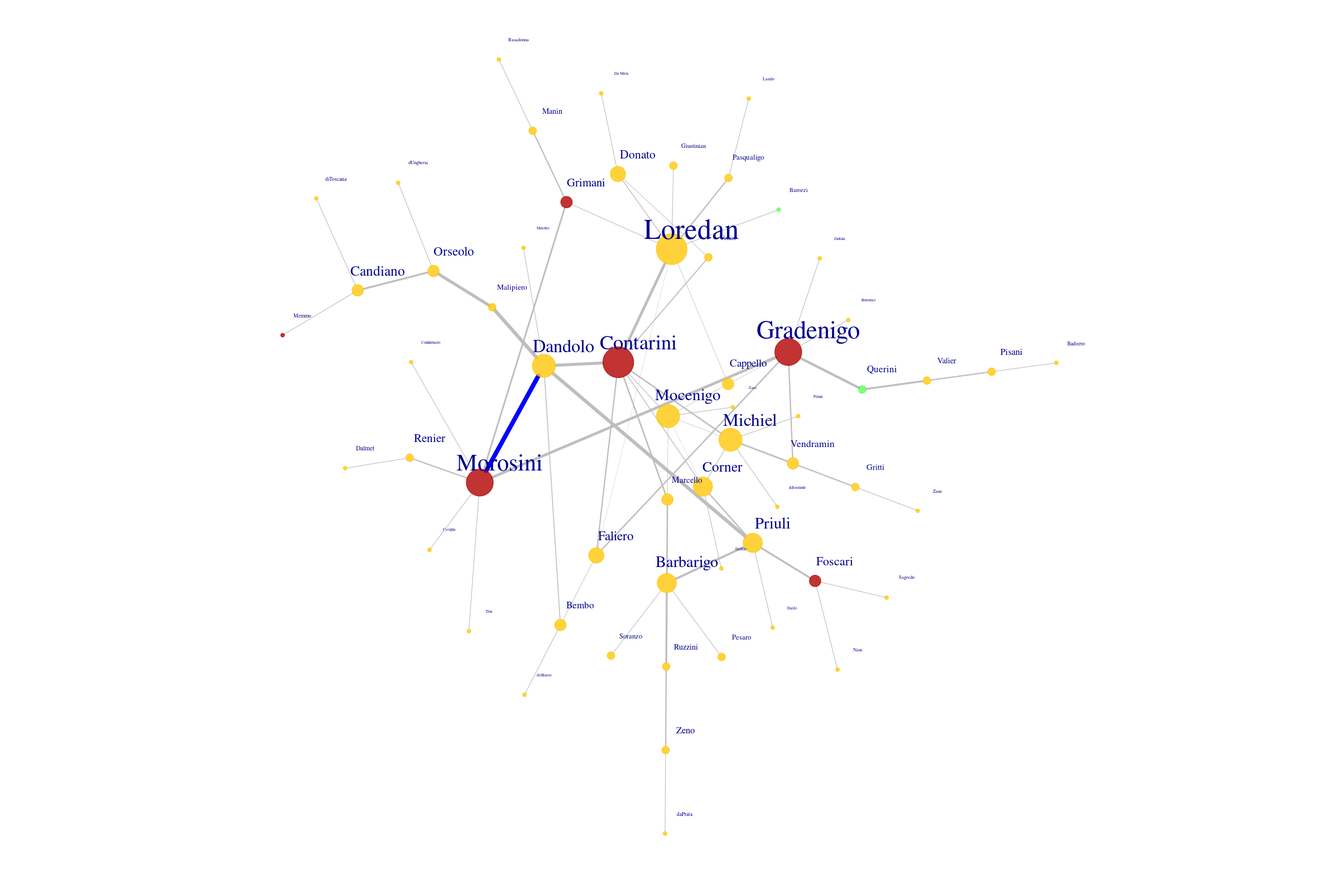
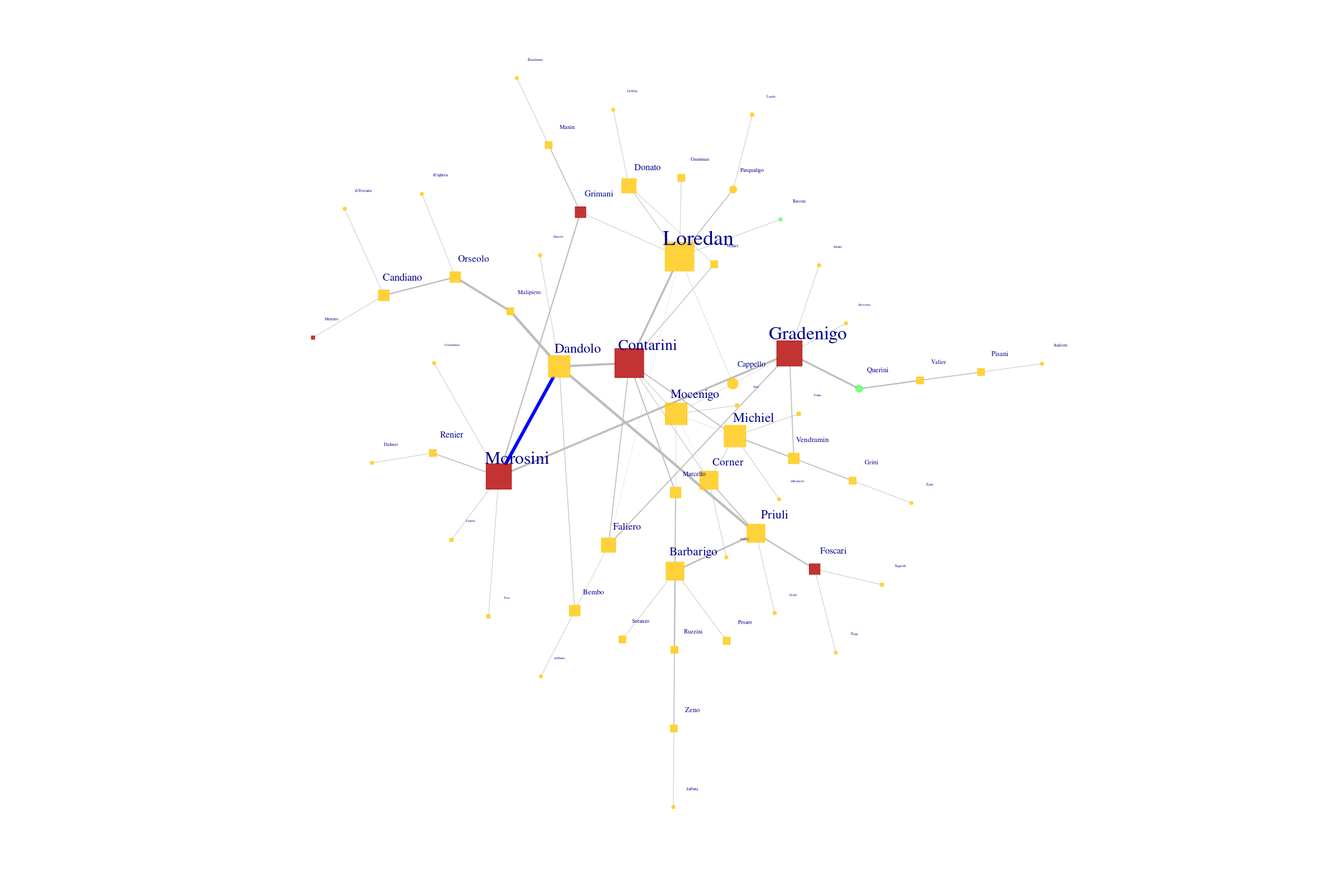
Finishing presentation roughly

diff --git a/doges-marriages.html b/doges-marriages.html
@@ -5312,11 +5312,11 @@ HTMLWidgets.widget({
 </head>
 <body style="background-color: white;">
 <div id="htmlwidget_container">
-<div id="htmlwidget-9675c277565840cb94f7" class="visNetwork html-widget" style="width:960px;height:500px;">
+<div id="htmlwidget-a7ac22d176d3cacc8e30" class="visNetwork html-widget" style="width:960px;height:500px;">
 
 </div>
 </div>
-<script type="application/json" data-for="htmlwidget-9675c277565840cb94f7">{"x":{"nodes":{"id":["Candiano","Orseolo","Memmo","Faliero","Michiel","Polani","Dandolo","Zeno","Gradenigo","Corner","Morosini","Mocenigo","Foscari","Malipiero","Tron","Marcello","Vendramin","Barbarigo","Loredan","Grimani","Gritti","Lando","Donato","Priuli","Venier","Cicogna","Contarini","Valier","Pesaro","Pisani","Renier","Manin","Bembo","Sagredo","Ruzzini","diToscana","dUngheria","diBoemodo","Minotto","daPrata","Zantani","Cappello","Borromeo","Condulmiero","Nani","Zorzi","Soranzo","Giustinian","Pasqualigo","Da Mula","Diedo","Delfino","Querini","Badoero","Dalmet","Zane","Barozzi","delBasso","Basadonna"],"family.type":["Estinte","Estinte","Apostoliche","Apostoliche","Apostoliche","Apostoliche","Apostoliche","Vecchie","Apostoliche","Evangeliche","Apostoliche","Ducali","Ducali","Ducali","Ducali","Ducali","Nuovissime","Ducali","Ducali","Ducali","Ducali","Ducali","Ducali","Ducali","Ducali","Nuovissime","Apostoliche","Nuove","Nuove","Nuove","Nuovissime","Soldo","Evangeliche","Nuove","Nuove",null,null,null,"Nuove",null,"Nuove","Nuove",null,"Nuovissime","Nuove","Vecchie","Vecchie","Evangeliche","Nuove","Nuove","Nuove",null,"Vecchie","Evangeliche",null,"Vecchie","Apostoliche",null,"Nuove"],"degree":[3,3,1,4,6,1,6,2,7,5,7,6,3,2,1,3,3,5,8,3,2,1,4,5,2,1,8,2,2,2,2,2,3,1,2,1,1,1,1,1,1,3,1,1,1,1,2,2,2,1,1,1,2,1,1,1,1,1,1],"EV":[0.002856844875694197,0.01343615568769284,0.0005606452236279765,0.6848367724172899,0.3534948367148152,0.06937205217806876,0.3074470445047806,0.00375927253720383,0.5898277734642251,0.3355606193203592,0.3870597745293211,0.4368085419371377,0.03325843298987073,0.06297213932088259,0.07595904688232251,0.2402489612431314,0.1928481465409968,0.09009293034815243,0.9999999999999999,0.4879985364849654,0.03936165433253917,0.04005524027812019,0.2957893848178251,0.1564192327635606,0.194894070236025,0.07595904688232254,0.6973201653786649,0.04930543412526792,0.02199729062622511,0.01006358365151306,0.1795829206186633,0.09960391143205911,0.2025320611165735,0.00652684426787109,0.01841814713928117,0.0005606452236279775,0.002636795779258481,0.06937205217806867,0.06033534354162411,0.0007377433091416815,0.1157515155160383,0.5134713847072709,0.1157515155160383,0.07595904688232254,0.006526844267871084,0.08572205819101074,0.02199729062622512,0.2542938664982271,0.2041069880034932,0.05804757101404372,0.03069669497232698,0.06585252845199872,0.2411790398263998,0.001974941010904636,0.07048496580728572,0.007724578846889755,0.3924925909683666,0.03974616671090379,0.01954689863427626],"pagerank":[0.02630639878828533,0.02389791738447135,0.009995852538036774,0.02428188126270734,0.03282996389582402,0.007193284433264335,0.03367335807721221,0.01731659111215625,0.04676981169917919,0.02667332564425485,0.04411917904344832,0.03034775812715164,0.02305681111804117,0.01408384186789455,0.007230035654722316,0.01597748871775425,0.01816418963062087,0.02974761243144413,0.05284676512493708,0.02157755881799092,0.01542060309330889,0.008388911413148945,0.0225706889278769,0.02992180578347248,0.01141740026690278,0.007230035654722314,0.03838829165527532,0.01490474753385237,0.01321646433861118,0.01728048145971934,0.02204104168648335,0.01454187253124312,0.01791662178631015,0.009075136031467597,0.01495901821736784,0.009995852538036773,0.009313449473622816,0.007193284433264334,0.007312765275627665,0.009901924104022337,0.006959521764056189,0.0197595500501814,0.00695952176405619,0.007230035654722317,0.009075136031467597,0.006841638616035749,0.01321646433861118,0.01142225794727491,0.01375656125127767,0.007338644278529774,0.007629079864546259,0.007076838240879259,0.0177111883486437,0.009886577501736653,0.01190981559811135,0.009096129196012208,0.01070960021884621,0.007618749054143808,0.008722668707134262],"color":["#FFC70ACC","#FFC70ACC","#B30000CC","#FFC70ACC","#FFC70ACC","#FFC70ACC","#FFC70ACC","#FFC70ACC","#B30000CC","#FFC70ACC","#B30000CC","#FFC70ACC","#B30000CC","#FFC70ACC","#FFC70ACC","#FFC70ACC","#FFC70ACC","#FFC70ACC","#FFC70ACC","#B30000CC","#FFC70ACC","#FFC70ACC","#FFC70ACC","#FFC70ACC","#FFC70ACC","#FFC70ACC","#B30000CC","#FFC70ACC","#FFC70ACC","#FFC70ACC","#FFC70ACC","#FFC70ACC","#FFC70ACC","#FFC70ACC","#FFC70ACC","#FFC70ACC","#FFC70ACC","#FFC70ACC","#FFC70ACC","#FFC70ACC","#FFC70ACC","#FFC70ACC","#FFC70ACC","#FFC70ACC","#FFC70ACC","#FFC70ACC","#FFC70ACC","#FFC70ACC","#FFC70ACC","#FFC70ACC","#FFC70ACC","#FFC70ACC","#00FF0080","#FFC70ACC","#FFC70ACC","#FFC70ACC","#00FF0080","#FFC70ACC","#FFC70ACC"],"shape":["circle","circle","circle","circle","circle","circle","circle","circle","circle","circle","circle","circle","circle","circle","circle","circle","circle","circle","circle","circle","circle","circle","circle","circle","circle","circle","circle","circle","circle","circle","circle","circle","circle","circle","circle","circle","circle","circle","circle","circle","circle","circle","circle","circle","circle","circle","circle","circle","circle","circle","circle","circle","circle","circle","circle","circle","circle","circle","circle"],"font.size":[26.30639878828533,23.89791738447135,9.995852538036774,24.28188126270734,32.82996389582402,7.193284433264335,33.67335807721221,17.31659111215625,46.76981169917919,26.67332564425485,44.11917904344831,30.34775812715164,23.05681111804117,14.08384186789455,7.230035654722316,15.97748871775425,18.16418963062087,29.74761243144413,52.84676512493708,21.57755881799092,15.42060309330889,8.388911413148945,22.5706889278769,29.92180578347248,11.41740026690278,7.230035654722314,38.38829165527532,14.90474753385237,13.21646433861119,17.28048145971934,22.04104168648335,14.54187253124313,17.91662178631015,9.075136031467597,14.95901821736784,9.995852538036772,9.313449473622816,7.193284433264334,7.312765275627664,9.901924104022337,6.959521764056189,19.7595500501814,6.959521764056189,7.230035654722317,9.075136031467597,6.841638616035749,13.21646433861118,11.42225794727491,13.75656125127767,7.338644278529774,7.629079864546259,7.076838240879259,17.7111883486437,9.886577501736653,11.90981559811135,9.096129196012209,10.70960021884621,7.618749054143808,8.722668707134263],"label":["Candiano","Orseolo","Memmo","Faliero","Michiel","Polani","Dandolo","Zeno","Gradenigo","Corner","Morosini","Mocenigo","Foscari","Malipiero","Tron","Marcello","Vendramin","Barbarigo","Loredan","Grimani","Gritti","Lando","Donato","Priuli","Venier","Cicogna","Contarini","Valier","Pesaro","Pisani","Renier","Manin","Bembo","Sagredo","Ruzzini","diToscana","dUngheria","diBoemodo","Minotto","daPrata","Zantani","Cappello","Borromeo","Condulmiero","Nani","Zorzi","Soranzo","Giustinian","Pasqualigo","Da Mula","Diedo","Delfino","Querini","Badoero","Dalmet","Zane","Barozzi","delBasso","Basadonna"],"x":[0.8741261662039472,0.6883686537631302,0.9680162060451669,-0.04158809845672229,-0.07459981515866676,-0.165542295278055,0.2235571216878838,0.5374467473015596,-0.2248050675217554,0.1113262454529376,0.007397959959433154,0.01498509956287619,0.5532438834042788,0.4673167510611391,-0.02247624435341966,0.1642219134344955,-0.257262000800032,0.3452291366225564,-0.149282150394903,-0.1396245859544198,-0.4147342475737815,-0.4013286970170673,-0.2482342585033052,0.330386477231758,-0.1234983952548055,0.05058439063467368,0.02624675719770075,-0.6964115912732811,0.3862812329034973,-0.8719361411310649,0.04246597028654286,-0.2183017446133515,0.1270938975095062,0.6727619932036986,0.4523627056967159,1,0.7743354935001874,-0.1063093190278543,0.3445186618328127,0.6002984116057304,-0.3506058067711511,-0.1066311132274659,-0.3715174386462246,0.1071265885996942,0.6939363861872512,0.009402733981899836,0.4350401444969367,-0.2630060584146759,-0.2926313318795327,-0.3837507096050433,0.4457150425497436,0.1462336053612379,-0.4834090347681332,-1,0.06552457089054364,-0.5273130802165324,-0.1972526396993645,0.2231449704826722,-0.2746483361715795],"y":[0.7300578415974679,0.6003267793565763,0.8543930848866546,0.2434302642643118,-0.1603002127049491,-0.32326030827994,0.2515969376902842,-0.8465112298980355,0.2772040925544133,-0.1288552342728987,0.5157874125323922,-0.09621104454684481,-0.1672087323361319,0.4349879052855741,0.6911304730297256,-0.1728235251570589,-0.03975582112961551,-0.3714032213915824,0.2874667246776896,0.5710218981009261,-0.2065052764400021,0.6189120087843507,0.119219308693354,-0.08803358670612815,0.0328222556817277,0.6838930274314312,0.05096896090625336,0.4257266992369613,-0.530461807408391,0.4852205255595534,0.8021722791965853,0.8176427601352547,0.3225500595412572,-0.2611912003939265,-0.6369061143010279,0.7600603649615523,0.6887161140514682,-0.3622841385182579,0.2921158502799277,-1,0.362096897662012,0.1212426025513007,0.265141969206669,0.6427372064818879,-0.1714498292429841,-0.2815719180620263,-0.4904742065223114,0.2126512984075326,0.4823875844552783,0.04637633319013856,-0.1163087177213156,-0.3104842454360474,0.3564885834420723,0.5290585776752292,1,-0.3242483703446652,0.4255443793122853,0.4378732169367978,0.9960735233749982]},"edges":{"from":["Candiano","Candiano","Candiano","Orseolo","Orseolo","Faliero","Faliero","Faliero","Faliero","Michiel","Michiel","Michiel","Michiel","Michiel","Michiel","Dandolo","Dandolo","Dandolo","Dandolo","Dandolo","Dandolo","Zeno","Zeno","Gradenigo","Gradenigo","Gradenigo","Gradenigo","Gradenigo","Gradenigo","Corner","Corner","Corner","Corner","Morosini","Morosini","Morosini","Morosini","Morosini","Mocenigo","Mocenigo","Mocenigo","Mocenigo","Foscari","Foscari","Foscari","Marcello","Marcello","Vendramin","Barbarigo","Barbarigo","Barbarigo","Barbarigo","Loredan","Loredan","Loredan","Loredan","Loredan","Loredan","Loredan","Grimani","Gritti","Lando","Donato","Donato","Donato","Priuli","Venier","Valier","Valier","Pesaro","Pisani","Renier","Manin","Bembo"],"to":["Orseolo","Memmo","diToscana","Malipiero","dUngheria","Gradenigo","Loredan","Contarini","Bembo","Polani","Corner","Mocenigo","Vendramin","Contarini","diBoemodo","Morosini","Malipiero","Priuli","Contarini","Bembo","Minotto","Ruzzini","daPrata","Morosini","Vendramin","Zantani","Cappello","Borromeo","Querini","Mocenigo","Priuli","Contarini","Delfino","Tron","Grimani","Cicogna","Renier","Condulmiero","Marcello","Contarini","Cappello","Zorzi","Priuli","Sagredo","Nani","Barbarigo","Contarini","Gritti","Priuli","Pesaro","Ruzzini","Soranzo","Grimani","Donato","Contarini","Cappello","Giustinian","Pasqualigo","Barozzi","Manin","Zane","Pasqualigo","Venier","Giustinian","Da Mula","Diedo","Contarini","Pisani","Querini","Soranzo","Badoero","Dalmet","Basadonna","delBasso"],"weight":[1,1,1,1,1,1,2,1,1,1,1,1,1,1,1,1,1,1,1,1,1,1,1,1,1,1,2,1,2,1,1,1,1,1,1,1,2,1,1,1,1,1,1,1,1,1,1,1,1,1,1,1,2,1,1,1,1,1,2,1,1,1,1,1,1,1,1,1,1,1,1,2,1,1],"edge_betweenness":[168,58,58,270,58,127.0833333333333,23.05,114.9333333333333,47.40000000000001,58,61,36.16666666666666,142.1666666666666,129,58,400,318,308.1666666666666,270.1,77.93333333333332,58,114,58,241,115.1666666666667,58,34.91666666666667,58,220,22,120.5,72.83333333333333,58,58,149,58,114,58,37,60.08333333333334,39.25000000000001,58,168,58,58,134,133,114,194,57,168,57,57.00000000000001,73.23333333333332,244.6833333333334,40.16666666666667,55,114,58,114,58,58,46.43333333333332,3,58,58,91.76666666666667,114,168,1,58,58,58,58],"color":["gray","gray","gray","gray","gray","gray","gray","gray","gray","gray","gray","gray","gray","gray","gray","blue","gray","gray","gray","gray","gray","gray","gray","gray","gray","gray","gray","gray","gray","gray","gray","gray","gray","gray","gray","gray","gray","gray","gray","gray","gray","gray","gray","gray","gray","gray","gray","gray","gray","gray","gray","gray","gray","gray","gray","gray","gray","gray","gray","gray","gray","gray","gray","gray","gray","gray","gray","gray","gray","gray","gray","gray","gray","gray"],"edge.value":[3.36,1.16,1.16,5.4,1.16,2.541666666666667,0.461,2.298666666666667,0.9480000000000001,1.16,1.22,0.7233333333333333,2.843333333333332,2.58,1.16,8,6.36,6.163333333333332,5.401999999999999,1.558666666666666,1.16,2.28,1.16,4.82,2.303333333333333,1.16,0.6983333333333335,1.16,4.4,0.44,2.41,1.456666666666667,1.16,1.16,2.98,1.16,2.28,1.16,0.74,1.201666666666667,0.7850000000000001,1.16,3.36,1.16,1.16,2.68,2.66,2.28,3.88,1.14,3.36,1.14,1.14,1.464666666666666,4.893666666666668,0.8033333333333335,1.1,2.28,1.16,2.28,1.16,1.16,0.9286666666666664,0.06,1.16,1.16,1.835333333333333,2.28,3.36,0.02,1.16,1.16,1.16,1.16],"width":[33.6,11.6,11.6,54,11.6,25.41666666666666,4.61,22.98666666666667,9.48,11.6,12.2,7.233333333333333,28.43333333333333,25.8,11.6,80,63.6,61.63333333333333,54.02,15.58666666666666,11.6,22.8,11.6,48.2,23.03333333333333,11.6,6.983333333333334,11.6,44,4.4,24.1,14.56666666666667,11.6,11.6,29.79999999999999,11.6,22.8,11.6,7.4,12.01666666666667,7.850000000000001,11.6,33.6,11.6,11.6,26.8,26.6,22.8,38.8,11.4,33.6,11.4,11.4,14.64666666666666,48.93666666666668,8.033333333333335,11,22.8,11.6,22.8,11.6,11.6,9.286666666666665,0.6,11.6,11.6,18.35333333333333,22.8,33.6,0.2,11.6,11.6,11.6,11.6]},"nodesToDataframe":true,"edgesToDataframe":true,"options":{"width":"100%","height":"100%","nodes":{"shape":"dot","physics":false},"manipulation":{"enabled":false},"edges":{"smooth":false},"physics":{"stabilization":false}},"groups":null,"width":null,"height":null,"idselection":{"enabled":true,"style":"width: 150px; height: 26px","useLabels":true,"main":"Select by id"},"byselection":{"enabled":false,"style":"width: 150px; height: 26px","multiple":false,"hideColor":"rgba(200,200,200,0.5)","highlight":false},"main":null,"submain":null,"footer":null,"background":"rgba(0, 0, 0, 0)","igraphlayout":{"type":"square"},"highlight":{"enabled":true,"hoverNearest":false,"degree":1,"algorithm":"all","hideColor":"rgba(200,200,200,0.5)","labelOnly":true},"collapse":{"enabled":false,"fit":false,"resetHighlight":true,"clusterOptions":null,"keepCoord":true,"labelSuffix":"(cluster)"}},"evals":[],"jsHooks":[]}</script>
-<script type="application/htmlwidget-sizing" data-for="htmlwidget-9675c277565840cb94f7">{"viewer":{"width":450,"height":350,"padding":15,"fill":true},"browser":{"width":1200,"height":800,"padding":40,"fill":false}}</script>
+<script type="application/json" data-for="htmlwidget-a7ac22d176d3cacc8e30">{"x":{"nodes":{"id":["Candiano","Orseolo","Memmo","Faliero","Michiel","Polani","Dandolo","Zeno","Gradenigo","Corner","Morosini","Mocenigo","Foscari","Malipiero","Tron","Marcello","Vendramin","Barbarigo","Loredan","Grimani","Gritti","Lando","Donato","Priuli","Venier","Cicogna","Contarini","Valier","Pesaro","Pisani","Renier","Manin","Bembo","Sagredo","Ruzzini","diToscana","dUngheria","diBoemodo","Minotto","daPrata","Zantani","Cappello","Borromeo","Condulmiero","Nani","Zorzi","Soranzo","Giustinian","Pasqualigo","Da Mula","Diedo","Delfino","Querini","Badoero","Dalmet","Zane","Barozzi","delBasso","Basadonna"],"family.type":["Estinte","Estinte","Apostoliche","Apostoliche","Apostoliche","Apostoliche","Apostoliche","Vecchie","Apostoliche","Evangeliche","Apostoliche","Ducali","Ducali","Ducali","Ducali","Ducali","Nuovissime","Ducali","Ducali","Ducali","Ducali","Ducali","Ducali","Ducali","Ducali","Nuovissime","Apostoliche","Nuove","Nuove","Nuove","Nuovissime","Soldo","Evangeliche","Nuove","Nuove",null,null,null,"Nuove",null,"Nuove","Nuove",null,"Nuovissime","Nuove","Vecchie","Vecchie","Evangeliche","Nuove","Nuove","Nuove",null,"Vecchie","Evangeliche",null,"Vecchie","Apostoliche",null,"Nuove"],"degree":[3,3,1,4,6,1,6,2,7,5,7,6,3,2,1,3,3,5,8,3,2,1,4,5,2,1,8,2,2,2,2,2,3,1,2,1,1,1,1,1,1,3,1,1,1,1,2,2,2,1,1,1,2,1,1,1,1,1,1],"EV":[0.002856844875694197,0.01343615568769284,0.0005606452236279765,0.6848367724172899,0.3534948367148152,0.06937205217806876,0.3074470445047806,0.00375927253720383,0.5898277734642251,0.3355606193203592,0.3870597745293211,0.4368085419371377,0.03325843298987073,0.06297213932088259,0.07595904688232251,0.2402489612431314,0.1928481465409968,0.09009293034815243,0.9999999999999999,0.4879985364849654,0.03936165433253917,0.04005524027812019,0.2957893848178251,0.1564192327635606,0.194894070236025,0.07595904688232254,0.6973201653786649,0.04930543412526792,0.02199729062622511,0.01006358365151306,0.1795829206186633,0.09960391143205911,0.2025320611165735,0.00652684426787109,0.01841814713928117,0.0005606452236279775,0.002636795779258481,0.06937205217806867,0.06033534354162411,0.0007377433091416815,0.1157515155160383,0.5134713847072709,0.1157515155160383,0.07595904688232254,0.006526844267871084,0.08572205819101074,0.02199729062622512,0.2542938664982271,0.2041069880034932,0.05804757101404372,0.03069669497232698,0.06585252845199872,0.2411790398263998,0.001974941010904636,0.07048496580728572,0.007724578846889755,0.3924925909683666,0.03974616671090379,0.01954689863427626],"pagerank":[0.02630639878828533,0.02389791738447135,0.009995852538036774,0.02428188126270734,0.03282996389582402,0.007193284433264335,0.03367335807721221,0.01731659111215625,0.04676981169917919,0.02667332564425485,0.04411917904344832,0.03034775812715164,0.02305681111804117,0.01408384186789455,0.007230035654722316,0.01597748871775425,0.01816418963062087,0.02974761243144413,0.05284676512493708,0.02157755881799092,0.01542060309330889,0.008388911413148945,0.0225706889278769,0.02992180578347248,0.01141740026690278,0.007230035654722314,0.03838829165527532,0.01490474753385237,0.01321646433861118,0.01728048145971934,0.02204104168648335,0.01454187253124312,0.01791662178631015,0.009075136031467597,0.01495901821736784,0.009995852538036773,0.009313449473622816,0.007193284433264334,0.007312765275627665,0.009901924104022337,0.006959521764056189,0.0197595500501814,0.00695952176405619,0.007230035654722317,0.009075136031467597,0.006841638616035749,0.01321646433861118,0.01142225794727491,0.01375656125127767,0.007338644278529774,0.007629079864546259,0.007076838240879259,0.0177111883486437,0.009886577501736653,0.01190981559811135,0.009096129196012208,0.01070960021884621,0.007618749054143808,0.008722668707134262],"color":["#FFC70ACC","#FFC70ACC","#B30000CC","#FFC70ACC","#FFC70ACC","#FFC70ACC","#FFC70ACC","#FFC70ACC","#B30000CC","#FFC70ACC","#B30000CC","#FFC70ACC","#B30000CC","#FFC70ACC","#FFC70ACC","#FFC70ACC","#FFC70ACC","#FFC70ACC","#FFC70ACC","#B30000CC","#FFC70ACC","#FFC70ACC","#FFC70ACC","#FFC70ACC","#FFC70ACC","#FFC70ACC","#B30000CC","#FFC70ACC","#FFC70ACC","#FFC70ACC","#FFC70ACC","#FFC70ACC","#FFC70ACC","#FFC70ACC","#FFC70ACC","#FFC70ACC","#FFC70ACC","#FFC70ACC","#FFC70ACC","#FFC70ACC","#FFC70ACC","#FFC70ACC","#FFC70ACC","#FFC70ACC","#FFC70ACC","#FFC70ACC","#FFC70ACC","#FFC70ACC","#FFC70ACC","#FFC70ACC","#FFC70ACC","#FFC70ACC","#00FF0080","#FFC70ACC","#FFC70ACC","#FFC70ACC","#00FF0080","#FFC70ACC","#FFC70ACC"],"shape":["square","square","square","square","square","square","square","square","square","square","square","square","square","square","square","square","square","square","square","square","square","square","square","square","square","square","square","square","square","square","square","square","square","square","square","circle","circle","circle","circle","circle","circle","circle","circle","circle","circle","square","square","square","circle","circle","circle","circle","circle","circle","circle","circle","circle","circle","circle"],"font.size":[26.30639878828533,23.89791738447135,9.995852538036774,24.28188126270734,32.82996389582402,7.193284433264335,33.67335807721221,17.31659111215625,46.76981169917919,26.67332564425485,44.11917904344831,30.34775812715164,23.05681111804117,14.08384186789455,7.230035654722316,15.97748871775425,18.16418963062087,29.74761243144413,52.84676512493708,21.57755881799092,15.42060309330889,8.388911413148945,22.5706889278769,29.92180578347248,11.41740026690278,7.230035654722314,38.38829165527532,14.90474753385237,13.21646433861119,17.28048145971934,22.04104168648335,14.54187253124313,17.91662178631015,9.075136031467597,14.95901821736784,9.995852538036772,9.313449473622816,7.193284433264334,7.312765275627664,9.901924104022337,6.959521764056189,19.7595500501814,6.959521764056189,7.230035654722317,9.075136031467597,6.841638616035749,13.21646433861118,11.42225794727491,13.75656125127767,7.338644278529774,7.629079864546259,7.076838240879259,17.7111883486437,9.886577501736653,11.90981559811135,9.096129196012209,10.70960021884621,7.618749054143808,8.722668707134263],"label":["Candiano","Orseolo","Memmo","Faliero","Michiel","Polani","Dandolo","Zeno","Gradenigo","Corner","Morosini","Mocenigo","Foscari","Malipiero","Tron","Marcello","Vendramin","Barbarigo","Loredan","Grimani","Gritti","Lando","Donato","Priuli","Venier","Cicogna","Contarini","Valier","Pesaro","Pisani","Renier","Manin","Bembo","Sagredo","Ruzzini","diToscana","dUngheria","diBoemodo","Minotto","daPrata","Zantani","Cappello","Borromeo","Condulmiero","Nani","Zorzi","Soranzo","Giustinian","Pasqualigo","Da Mula","Diedo","Delfino","Querini","Badoero","Dalmet","Zane","Barozzi","delBasso","Basadonna"],"x":[0.8640879006001436,0.6645914436275719,1,0.1315227169536703,-0.1203924250309126,-0.2467579239646103,0.1404869652166927,-0.8638889361908275,0.201885299062144,-0.1740061984191987,0.3742244912447843,-0.1166087993176226,-0.3842047848404603,0.4152189096218906,0.4847169138132434,-0.239340423907945,0.01190102323110875,-0.4422443397356929,0.1150173666497392,0.335026913115442,-0.03563595890321392,0.1641816617459639,-0.00113569464573704,-0.2001922615770297,-0.04271737242857221,0.5075453390256437,-0.02659526755541175,0.3203130829931353,-0.5756014210113536,0.3605581880271669,0.5880855204208739,0.472247576485231,0.2147884674860652,-0.5156486818842307,-0.6762308362508206,0.9589215141618879,0.7747264403589609,-0.2550931222436752,0.1415434933050521,-1,0.2587050335810446,0.07146403557263792,0.3160009373013448,0.5088473487929628,-0.46533708386793,-0.2144919541522592,-0.5745037877551555,0.07234738775463878,0.145883147554535,-0.06004412505916934,-0.2812083389942215,-0.3110016760487055,0.2665463420104526,0.3924007040529385,0.7350810312256284,-0.07142101736612283,0.1776927373088342,0.3003866831047288,0.5700375759499263],"y":[-0.5346127545255462,-0.3748326583838011,-0.5841317359341804,0.2650377945533768,0.0792126449477899,-0.02335757568786889,0.04126861155727846,0.1502081259062737,0.01586171972542938,0.1743257287805302,0.2098519828870626,0.2606746575018073,-0.2548778994933558,-0.1811106644238264,0.3260397011504166,0.2209454769780261,-0.1259914469090301,0.1069692005343192,0.5123101413865561,0.4983702522442159,-0.3854811866748585,1,0.6787624540567063,-0.03014630949520358,0.5036656550100325,0.1400185840223822,0.2651142591688604,-0.5935292035076647,0.08282955348100041,-0.8277384728331589,0.2759185932945536,0.7022660509798893,0.1998094973747933,-0.3506258661149693,0.1326065327671582,-0.6691212635804966,-0.4479651446736668,0.06990528643482952,-0.118449876729154,0.1622228576788787,-0.1335764119212435,0.2632094479656029,-0.05338394901814014,0.2304233948132026,-0.4194885221232632,0.4144274650283031,0.1594891654647308,0.6874383119129222,0.7989208615337848,0.8667077851313656,-0.1774211632169717,0.2768384644811988,-0.312579718314185,-1,0.3223918249541116,-0.5735921452913745,0.6749562106506468,0.3090041592832169,0.8484504325614997]},"edges":{"from":["Candiano","Candiano","Candiano","Orseolo","Orseolo","Faliero","Faliero","Faliero","Faliero","Michiel","Michiel","Michiel","Michiel","Michiel","Michiel","Dandolo","Dandolo","Dandolo","Dandolo","Dandolo","Dandolo","Zeno","Zeno","Gradenigo","Gradenigo","Gradenigo","Gradenigo","Gradenigo","Gradenigo","Corner","Corner","Corner","Corner","Morosini","Morosini","Morosini","Morosini","Morosini","Mocenigo","Mocenigo","Mocenigo","Mocenigo","Foscari","Foscari","Foscari","Marcello","Marcello","Vendramin","Barbarigo","Barbarigo","Barbarigo","Barbarigo","Loredan","Loredan","Loredan","Loredan","Loredan","Loredan","Loredan","Grimani","Gritti","Lando","Donato","Donato","Donato","Priuli","Venier","Valier","Valier","Pesaro","Pisani","Renier","Manin","Bembo"],"to":["Orseolo","Memmo","diToscana","Malipiero","dUngheria","Gradenigo","Loredan","Contarini","Bembo","Polani","Corner","Mocenigo","Vendramin","Contarini","diBoemodo","Morosini","Malipiero","Priuli","Contarini","Bembo","Minotto","Ruzzini","daPrata","Morosini","Vendramin","Zantani","Cappello","Borromeo","Querini","Mocenigo","Priuli","Contarini","Delfino","Tron","Grimani","Cicogna","Renier","Condulmiero","Marcello","Contarini","Cappello","Zorzi","Priuli","Sagredo","Nani","Barbarigo","Contarini","Gritti","Priuli","Pesaro","Ruzzini","Soranzo","Grimani","Donato","Contarini","Cappello","Giustinian","Pasqualigo","Barozzi","Manin","Zane","Pasqualigo","Venier","Giustinian","Da Mula","Diedo","Contarini","Pisani","Querini","Soranzo","Badoero","Dalmet","Basadonna","delBasso"],"weight":[1,1,1,1,1,1,2,1,1,1,1,1,1,1,1,1,1,1,1,1,1,1,1,1,1,1,2,1,2,1,1,1,1,1,1,1,2,1,1,1,1,1,1,1,1,1,1,1,1,1,1,1,2,1,1,1,1,1,2,1,1,1,1,1,1,1,1,1,1,1,1,2,1,1],"edge_betweenness":[168,58,58,270,58,127.0833333333333,23.05,114.9333333333333,47.40000000000001,58,61,36.16666666666666,142.1666666666666,129,58,400,318,308.1666666666666,270.1,77.93333333333332,58,114,58,241,115.1666666666667,58,34.91666666666667,58,220,22,120.5,72.83333333333333,58,58,149,58,114,58,37,60.08333333333334,39.25000000000001,58,168,58,58,134,133,114,194,57,168,57,57.00000000000001,73.23333333333332,244.6833333333334,40.16666666666667,55,114,58,114,58,58,46.43333333333332,3,58,58,91.76666666666667,114,168,1,58,58,58,58],"color":["gray","gray","gray","gray","gray","gray","gray","gray","gray","gray","gray","gray","gray","gray","gray","blue","gray","gray","gray","gray","gray","gray","gray","gray","gray","gray","gray","gray","gray","gray","gray","gray","gray","gray","gray","gray","gray","gray","gray","gray","gray","gray","gray","gray","gray","gray","gray","gray","gray","gray","gray","gray","gray","gray","gray","gray","gray","gray","gray","gray","gray","gray","gray","gray","gray","gray","gray","gray","gray","gray","gray","gray","gray","gray"],"edge.value":[3.36,1.16,1.16,5.4,1.16,2.541666666666667,0.461,2.298666666666667,0.9480000000000001,1.16,1.22,0.7233333333333333,2.843333333333332,2.58,1.16,8,6.36,6.163333333333332,5.401999999999999,1.558666666666666,1.16,2.28,1.16,4.82,2.303333333333333,1.16,0.6983333333333335,1.16,4.4,0.44,2.41,1.456666666666667,1.16,1.16,2.98,1.16,2.28,1.16,0.74,1.201666666666667,0.7850000000000001,1.16,3.36,1.16,1.16,2.68,2.66,2.28,3.88,1.14,3.36,1.14,1.14,1.464666666666666,4.893666666666668,0.8033333333333335,1.1,2.28,1.16,2.28,1.16,1.16,0.9286666666666664,0.06,1.16,1.16,1.835333333333333,2.28,3.36,0.02,1.16,1.16,1.16,1.16],"width":[33.6,11.6,11.6,54,11.6,25.41666666666666,4.61,22.98666666666667,9.48,11.6,12.2,7.233333333333333,28.43333333333333,25.8,11.6,80,63.6,61.63333333333333,54.02,15.58666666666666,11.6,22.8,11.6,48.2,23.03333333333333,11.6,6.983333333333334,11.6,44,4.4,24.1,14.56666666666667,11.6,11.6,29.79999999999999,11.6,22.8,11.6,7.4,12.01666666666667,7.850000000000001,11.6,33.6,11.6,11.6,26.8,26.6,22.8,38.8,11.4,33.6,11.4,11.4,14.64666666666666,48.93666666666668,8.033333333333335,11,22.8,11.6,22.8,11.6,11.6,9.286666666666665,0.6,11.6,11.6,18.35333333333333,22.8,33.6,0.2,11.6,11.6,11.6,11.6]},"nodesToDataframe":true,"edgesToDataframe":true,"options":{"width":"100%","height":"100%","nodes":{"shape":"dot","physics":false},"manipulation":{"enabled":false},"edges":{"smooth":false},"physics":{"stabilization":false}},"groups":null,"width":null,"height":null,"idselection":{"enabled":true,"style":"width: 150px; height: 26px","useLabels":true,"main":"Select by id"},"byselection":{"enabled":false,"style":"width: 150px; height: 26px","multiple":false,"hideColor":"rgba(200,200,200,0.5)","highlight":false},"main":null,"submain":null,"footer":null,"background":"rgba(0, 0, 0, 0)","igraphlayout":{"type":"square"},"highlight":{"enabled":true,"hoverNearest":false,"degree":1,"algorithm":"all","hideColor":"rgba(200,200,200,0.5)","labelOnly":true},"collapse":{"enabled":false,"fit":false,"resetHighlight":true,"clusterOptions":null,"keepCoord":true,"labelSuffix":"(cluster)"}},"evals":[],"jsHooks":[]}</script>
+<script type="application/htmlwidget-sizing" data-for="htmlwidget-a7ac22d176d3cacc8e30">{"viewer":{"width":450,"height":350,"padding":15,"fill":true},"browser":{"width":960,"height":500,"padding":40,"fill":false}}</script>
 </body>
 </html>

diff --git a/preso/index.html b/preso/index.html
@@ -59,10 +59,12 @@
 
 		<section>
 		  <section data-background='https://live.staticflickr.com/65535/52544280504_30fc5a252b_k_d.jpg'><h1>The turn of your family came quickly</h1>
-		    <h2>But how could you be sure it was <em>your</em> candidate?</h2>
+		    <h2>But how could you be sure it was <em>your</em> candidate?m</h2>
 		  </section>
 
-		  <section><img src="img/fig3-marriage-network.png" alt="Marriage network"></section>
+		  <section><img src="img/fig3-marriage-network.png" alt="Marriage network">
+		    <aside class='notes'>Squares are all over the network, showing that most doges were in families that fell in the main component of the network, and the ones that had the highest number of doges were the most central. Besides, red families are still there, the "aristocratic" party, while "popular" families have almost completely disappeared. Still, it's a small world, non-power-law network, that avoids dominance by a single family.</aside>
+		  </section>
 		</section>
 
 		<section data-background=""><h2>What can we conclude from studying Venice social networks?</h2>
